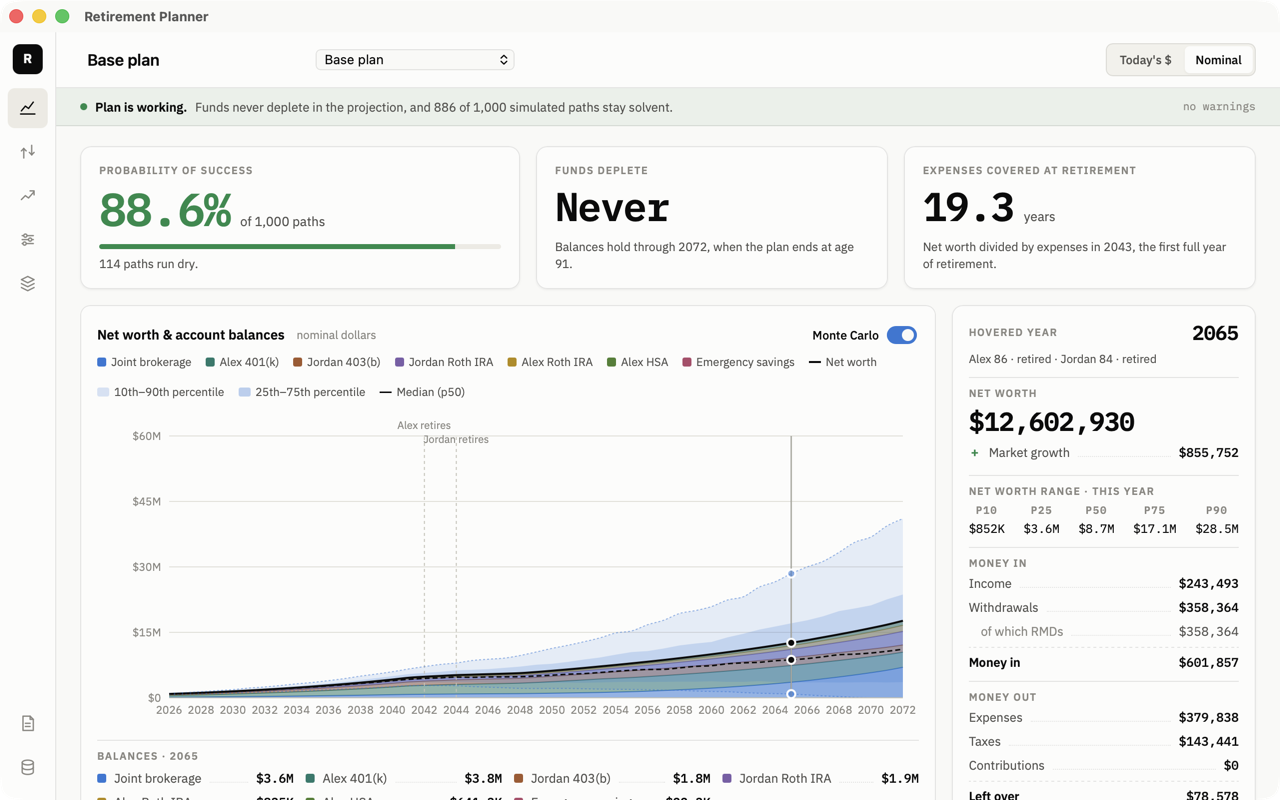
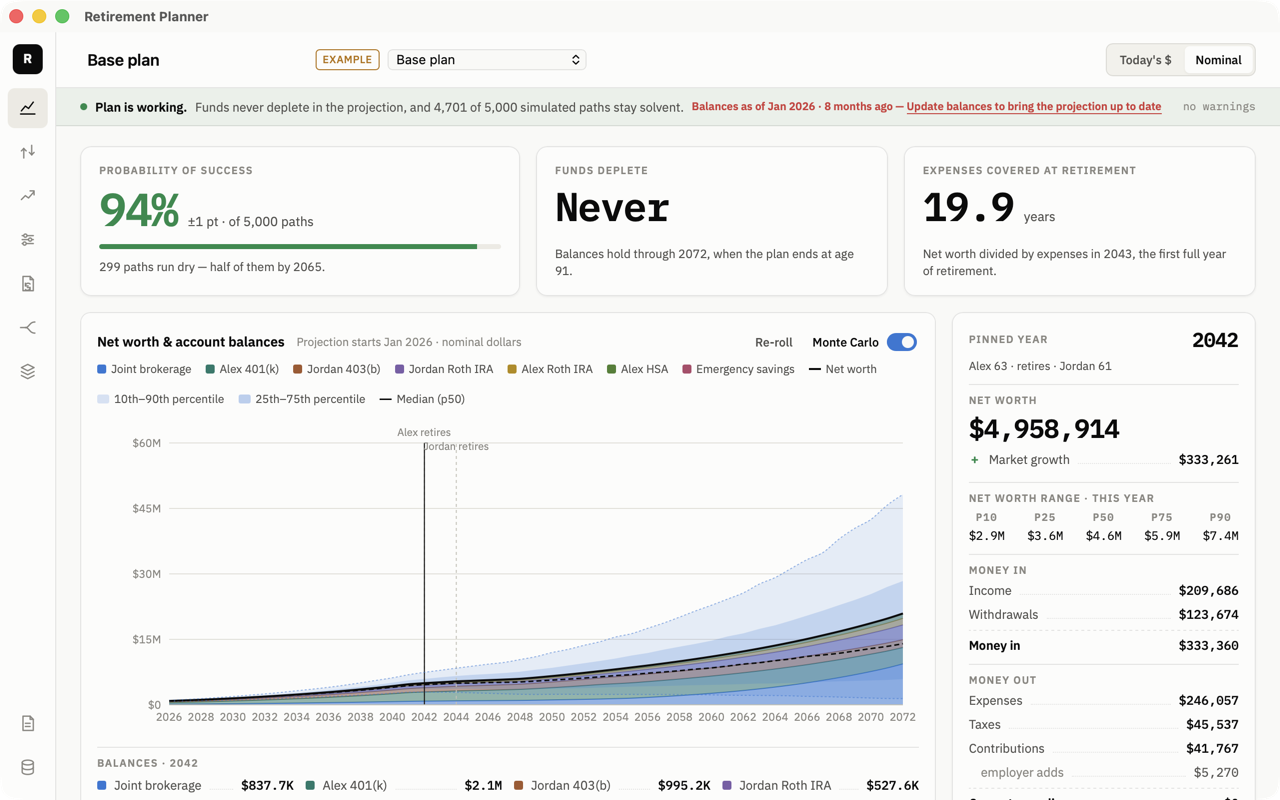
Retake the README screenshots and add the screens built since
Every screenshot is retaken from the demo household on the current app, and
new ones cover why paths fail, what-if, the cash flow chart, growth, a
one-time contribution and update balances. Features gains the what-if sandbox,
Monte Carlo run control and diagnostics, the comparison's Monte Carlo columns
and the growth screen. CLAUDE.md's status now says v0.6.

diff --git a/README.md b/README.md
@@ -11,53 +11,115 @@ you choose. No cloud, no accounts, no telemetry, no network calls.
 
 ## What it looks like
 
-![The Plan screen: a probability-of-success tile reading 88.6%, a fund-depletion
-tile, and a stacked area chart of net worth and account balances through
-2072, with a year inspector pinned to 2042.](docs/screenshots/plan.png)
+![The Plan screen: a probability-of-success tile reading 94% of 5,000 paths, a
+fund-depletion tile reading Never, a notice that the balances are as of Jan
+2026, and a stacked area chart of net worth and account balances through 2072,
+with a year inspector pinned to 2042.](docs/screenshots/plan.png)
 
 Every screenshot here is the committed demo household — `fixtures/demo/`, an
 invented household and the scenarios branched from it. None of it is anyone's
-real money.
+real money. The notice across the top is real too: the demo's balances were
+read in January, and the app says how old they are rather than projecting
+from them as if they were today's.
 
 <details>
 <summary><b>More screens</b></summary>
 
-**Monte Carlo.** The same projection across 1,000 randomized return paths,
-as a percentile fan with the range for the pinned year broken out.
+**Monte Carlo.** The same projection across thousands of randomized return
+paths, as a percentile fan, with the range for the pinned year broken out in
+the inspector. Re-roll draws a fresh set of paths.
 
 ![The net worth chart showing 10th-90th and 25th-75th percentile bands around
-a median line.](docs/screenshots/monte-carlo.png)
+a median line, with the pinned year's P10 to P90 net worth range in the
+inspector.](docs/screenshots/monte-carlo.png)
+
+**Why paths fail.** Below the chart, the paths that ran dry are read for what
+they have in common — when they failed, what returns they drew in the first
+years of retirement, and how hard they were withdrawing — next to the plan's
+milestones.
+
+![A "Why paths fail" card with a histogram of failure years, the median
+returns of failed and surviving paths, and the median withdrawal rate against
+the conventional 3-4% range, above tiles for net worth at each retirement, at
+the first death, and at plan end.](docs/screenshots/why-paths-fail.png)
 
 **Scenarios.** Branch a plan, then overlay them and read the differences off a
 summary table — net worth at plan end, delta against the base, depletion year,
-lifetime taxes.
+lifetime taxes, and a Monte Carlo run of every scenario on the same paths for
+probability of success, its delta, and the 10th percentile at the end.
 
-![Four scenarios overlaid on one chart, with a table comparing net worth at
-plan end and lifetime taxes.](docs/screenshots/scenarios.png)
+![Five scenarios overlaid on one chart, above a table comparing each one's
+deterministic projection and its Monte Carlo probability of
+success.](docs/screenshots/scenarios.png)
 
-**Cash flow.** Where the money actually went in a given year, as a Sankey —
-salaries in on the left, spending, taxes and contributions out on the right.
+**What-if.** A sandbox for questions you don't want to save yet: retire
+earlier, spend less, assume worse returns or higher inflation, and read the
+hypothetical against the plan it started from. Nothing is written until you
+save it as a scenario of its own.
+
+![The What-if screen with sliders for retirement dates, spending, returns,
+volatility, inflation and life expectancy, comparing the Base plan to a
+hypothetical where Alex retires two years earlier and spending is cut to 92%:
+$789K less at plan end, and a 95% probability of success against the plan's
+94%.](docs/screenshots/what-if.png)
+
+**Cash flow.** Money in above the line and money out below it, year by year,
+then where it actually went in the year you pick, as a Sankey — salaries and
+withdrawals in on the left, spending, taxes and contributions out on the
+right.
+
+![A chart of income, withdrawals, contributions, expenses and taxes stacked
+above and below a zero line from 2026 to 2072, under tiles for the year
+withdrawals overtake income, the largest withdrawal, and lifetime
+taxes.](docs/screenshots/cash-flow.png)
 
 ![A Sankey diagram flowing two salaries and account withdrawals into a
 household node, then out to spending, taxes and
 contributions.](docs/screenshots/cash-flow-sankey.png)
 
+**Growth.** How much of the plan is money you put in and how much is the
+market's, per year and as a running total — and the year compounding overtakes
+your own contributions.
+
+![The Growth screen: tiles for the year market growth overtakes what you put
+in, growth at plan end and growth per dollar, above a per-year bar chart and a
+running-total line chart of contributions against market
+growth.](docs/screenshots/growth.png)
+
 **Inputs.** A two-pane editor rather than a wizard. Every edit re-projects and
 autosaves.
 
 ![The Inputs screen with People, Accounts and Spending in a left rail, editing
-a person's birth date, retirement date and salary.](docs/screenshots/inputs.png)
+a person's birth month, retirement month, life expectancy and
+salary.](docs/screenshots/inputs.png)
 
 **Accounts.** The balance sheet as a table, with the account under the cursor
-open for editing beneath it. Saving is dated: the demo household's brokerage
-runs two overlapping schedules, its 401(k) escalates from 10% to 15% of
-salary, and one Roth IRA has a zero balance because it doesn't open until
-2029.
+open for editing beneath it. Each balance carries the month it was read.
+Saving is dated: the demo household's brokerage runs two overlapping
+schedules, its 401(k) escalates from 10% to 15% of salary, and one Roth IRA
+has a zero balance because it doesn't open until 2029.
 
 ![The Accounts table listing seven accounts with a contributing column reading
-"2 schedules", "10% to 15% of salary" and "Max", above the editor for the
-joint brokerage's first contribution
-schedule.](docs/screenshots/accounts.png)
+"2 schedules", "10% → 15% of salary" and "Max", and an as-of column, above the
+editor for the joint brokerage.](docs/screenshots/accounts.png)
+
+**One-time contributions.** Money from outside the plan — a house sale, an
+inheritance — named, dated, and landing in one account once. The demo's "Sell
+the house at retirement" scenario puts $350,000 in today's dollars into the
+brokerage the month Alex retires. Recurring contributions can carry a name
+too.
+
+![The joint brokerage's contribution cards: a recurring one named "Car paid
+off", and a one-time contribution named "House sale" of $350,000 in today's
+dollars landing when Alex retires.](docs/screenshots/one-time-contribution.png)
+
+**Update balances.** Every balance off today's statements in one sitting,
+dated to the month you did it, which moves the projection's start there for
+every scenario of the household at once.
+
+![The Update balances screen: a month picker, then a table of seven accounts
+showing each one's last reading and date beside a field for the new balance
+and cost basis.](docs/screenshots/update-balances.png)
 
 </details>
 
@@ -292,8 +354,17 @@ there — it just doesn't bundle an installer.
   shared spending steps down by a factor you choose, and a pension can carry a
   survivor percentage.
 - **Monte Carlo simulation.** Runs the projection across many randomized return
-  paths in parallel and charts the percentile fan plus probability of success.
-- **Update balances in one sitting.** A Refresh screen that takes every
+  paths in parallel and charts the percentile fan plus probability of success,
+  with its margin of error. The path count is a setting, a large run can be
+  cancelled, and Re-roll draws fresh paths. A "Why paths fail" card reads the
+  paths that ran dry for when they failed, the returns they drew early in
+  retirement, and how hard they were withdrawing.
+- **What-if sandbox.** Sliders for retirement dates, spending, returns,
+  volatility, inflation and life expectancy, projected and Monte Carlo'd
+  against the saved plan on the same paths, so the difference is the change
+  and not the draw. Nothing touches the plan on disk until you save the
+  hypothetical as a scenario of its own.
+- **Update balances in one sitting.** A screen that takes every
   balance off today's statements at once, dates them to the month you did it,
   and moves the projection's start there — so the plan is about today rather
   than about whenever you last looked. Balances you don't re-read keep their
@@ -304,11 +375,16 @@ there — it just doesn't bundle an installer.
   all project from the same balances.
 - **Multi-scenario comparison.** Duplicate a plan to branch a scenario, then
   overlay net worth across up to five of them with a summary table (net worth
-  at plan end, delta vs. the active scenario, depletion year, lifetime taxes).
+  at plan end, delta vs. the active scenario, depletion year, lifetime taxes),
+  plus a Monte Carlo run of each on the same paths for probability of success,
+  its delta, and the 10th percentile at plan end.
 - **Charts and tables.** A Plan screen with headline tiles and a year-by-year
-  inspector, a Cash flow screen with a per-year composition Sankey, stacked
-  account balances and net worth, retirement and fund-depletion markers, a
-  nominal/today's-dollars toggle, and a table view of every plotted value.
+  inspector, a Cash flow screen with a per-year composition Sankey, a Growth
+  screen splitting the plan into what you put in and what the market added,
+  stacked account balances and net worth, retirement and fund-depletion
+  markers, a nominal/today's-dollars toggle, and a table view of every plotted
+  value. The Plan screen, the comparison and the report each say how old the
+  balances behind them are.
 - **Export.** CSV of the projection, and a paginated printable PDF report.
 - **Validation before simulation.** Plans are checked before they're simulated
   or saved, with plain-language error messages.

diff --git a/CLAUDE.md b/CLAUDE.md
@@ -119,7 +119,7 @@ ts-rs output would make the CI drift check fail permanently.
 
 ## Status
 
-V1 shipped; the app is released and in real use (`v0.5`). Current and planned
+V1 shipped; the app is released and in real use (`v0.6`). Current and planned
 work lives in GitHub issues, not in this file — `gh issue list`.
 
 Design intent for work not yet built is in `docs/ARCHITECTURE.md`: which
